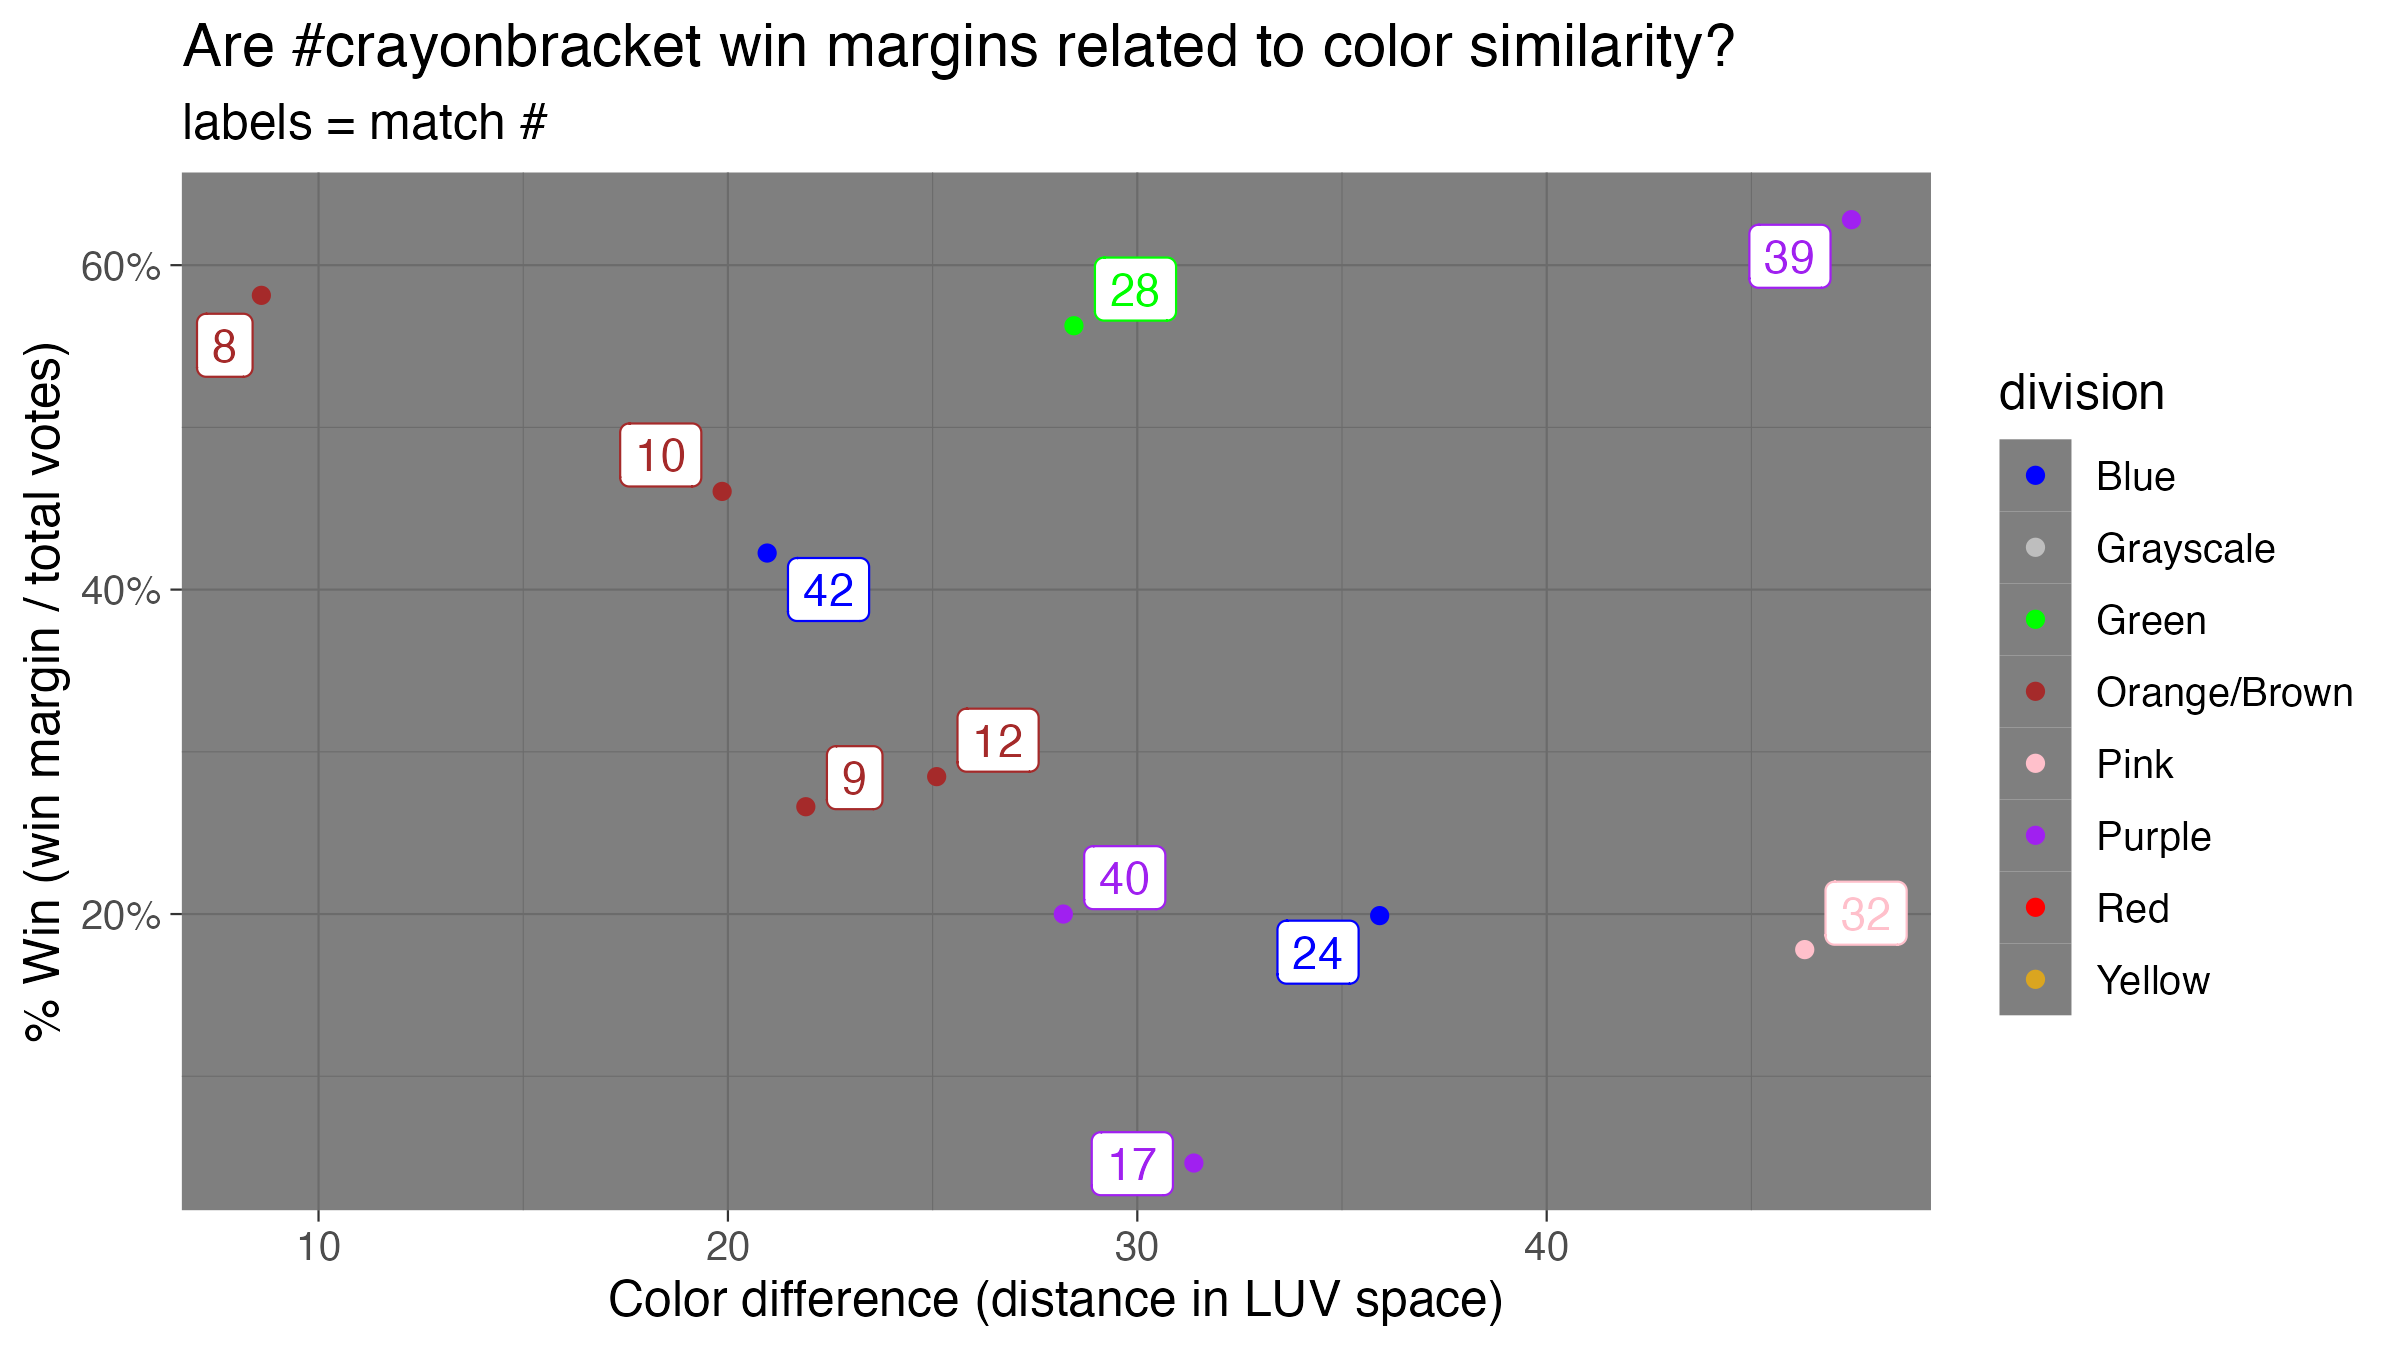
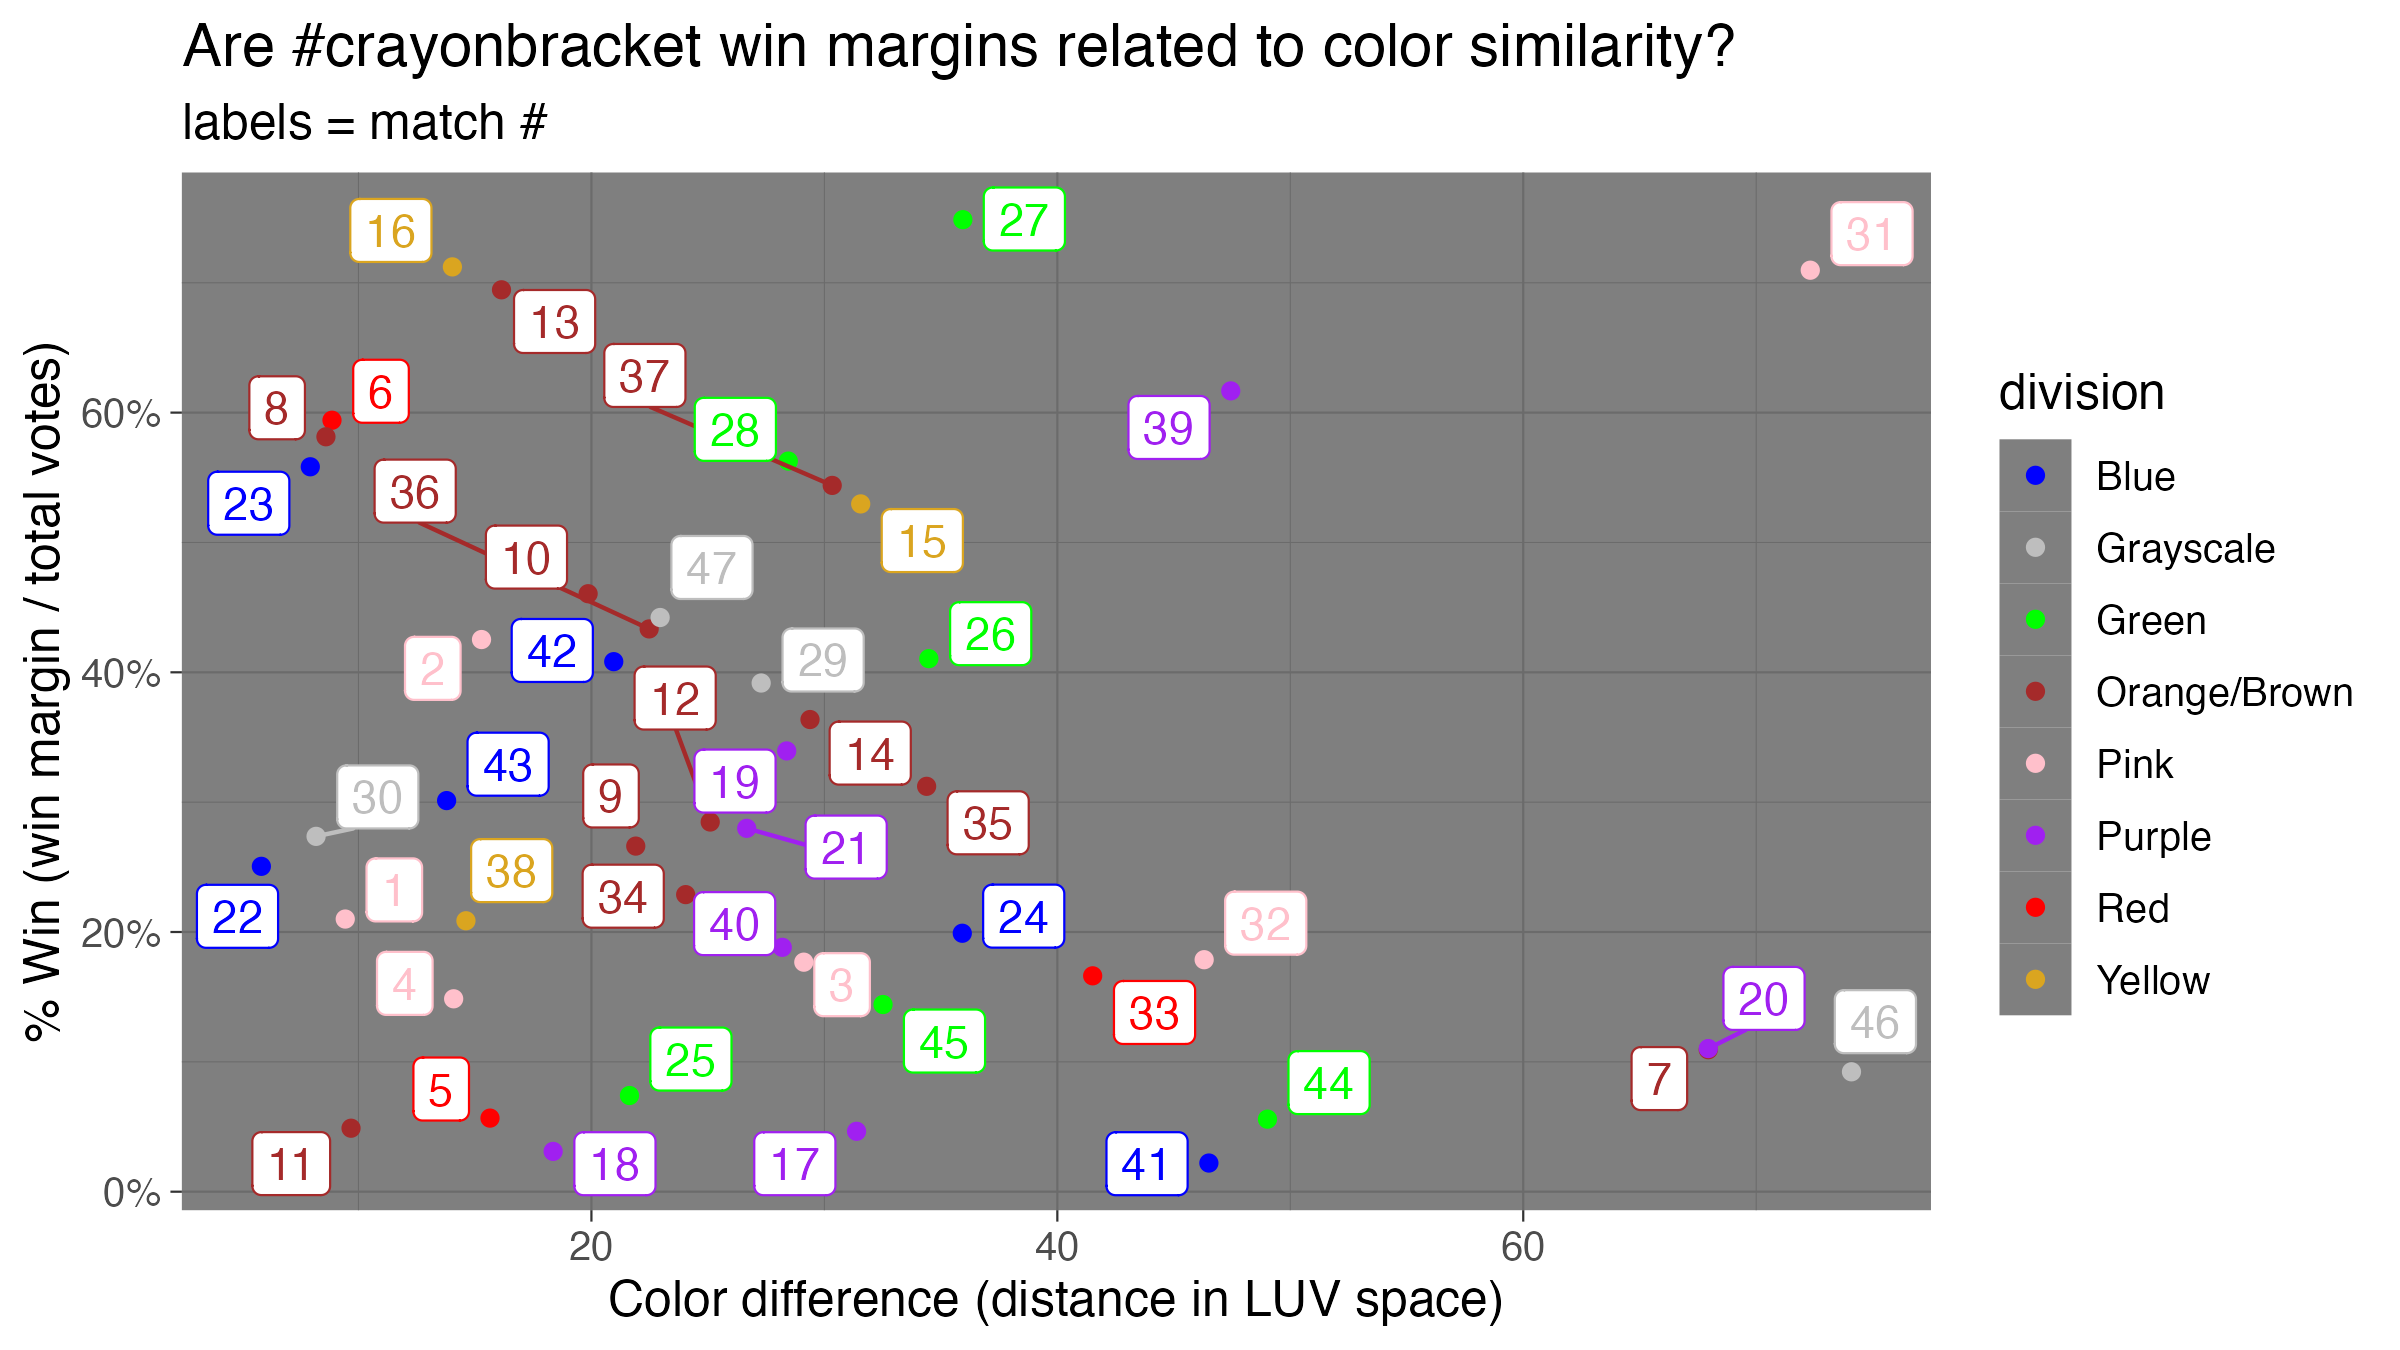
run analysis

diff --git a/analysis.md b/analysis.md
@@ -1,0 +1,199 @@
+Color Analysis
+================
+Eric R. Scott
+2022-10-07
+
+``` r
+# Load packages and data --------------------------------------------------
+library(colorspace)
+library(tidyverse)
+```
+
+    ## ── Attaching packages ─────────────────────────────────────── tidyverse 1.3.2 ──
+    ## ✔ ggplot2 3.3.6      ✔ purrr   0.3.5 
+    ## ✔ tibble  3.1.8      ✔ dplyr   1.0.10
+    ## ✔ tidyr   1.2.1      ✔ stringr 1.4.1 
+    ## ✔ readr   2.1.3      ✔ forcats 0.5.2 
+    ## ── Conflicts ────────────────────────────────────────── tidyverse_conflicts() ──
+    ## ✖ dplyr::filter() masks stats::filter()
+    ## ✖ dplyr::lag()    masks stats::lag()
+
+``` r
+library(ggrepel)
+library(performance)
+```
+
+    ## Warning: package 'performance' was built under R version 4.2.1
+
+``` r
+library(MASS)
+```
+
+    ## 
+    ## Attaching package: 'MASS'
+    ## 
+    ## The following object is masked from 'package:dplyr':
+    ## 
+    ##     select
+
+``` r
+library(car)
+```
+
+    ## Loading required package: carData
+    ## 
+    ## Attaching package: 'car'
+    ## 
+    ## The following object is masked from 'package:dplyr':
+    ## 
+    ##     recode
+    ## 
+    ## The following object is masked from 'package:purrr':
+    ## 
+    ##     some
+
+``` r
+full_data <- read_csv("data/crayonbracket.csv")
+```
+
+    ## Rows: 94 Columns: 9
+    ## ── Column specification ────────────────────────────────────────────────────────
+    ## Delimiter: ","
+    ## chr (4): colors, label, color_name, division
+    ## dbl (5): match, id_str, poll_id, position, votes
+    ## 
+    ## ℹ Use `spec()` to retrieve the full column specification for this data.
+    ## ℹ Specify the column types or set `show_col_types = FALSE` to quiet this message.
+
+# Is the difference between colors a main driver of how close a match is?
+
+In other words, do colors that are more different from eachother have a
+winner that wins by a greater number of votes?
+
+To understand this, first we need a metric of how different or similar
+colors are. I pulled the hex codes for each crayon color from @sbarolo’s
+tweets (assuming they are accurate and official Crayola hex colors). I
+then transformed them to the LUV color space, which is relatively
+“percepturally uniform” meaning that we can use the Euclidean distance
+between colors in this space as a measure of similarity.
+
+``` r
+#Create matrix column of HSV coordinates for each color
+dist_diff <- 
+  full_data |>
+  mutate(coords = colors |> hex2RGB() |> as("LUV") |> coords()) |> 
+  #For each match ...
+  group_by(match) |> 
+  #Use the matrix to calculate euclidean distance
+  summarise(
+    distance = as.numeric(dist(coords, method = "euclidean")), #color similarity
+    poll_margin = abs(diff(votes)), #how many votes did the winner win by?
+    winner = color_name[which.max(votes)], #which color won?
+    total_votes = sum(votes), #how many total votes?
+    division = unique(division), #what division were they in?
+    match_name = glue::glue_collapse(color_name, sep = " vs. ")
+  ) |> 
+  mutate(margin_prop = poll_margin/total_votes) |> #percentage win margin
+  dplyr::select(match, match_name, winner, division, poll_margin, total_votes, margin_prop, distance)
+head(dist_diff)
+```
+
+    ## # A tibble: 6 × 8
+    ##   match match_name                winner divis…¹ poll_…² total…³ margi…⁴ dista…⁵
+    ##   <dbl> <glue>                    <chr>  <chr>     <dbl>   <dbl>   <dbl>   <dbl>
+    ## 1     1 lavender vs. carnation p… carna… Pink        101     481  0.210     9.43
+    ## 2     2 violet red vs. wild stra… wild … Pink        219     515  0.425    15.3 
+    ## 3     3 magenta vs. tickle me pi… magen… Pink         70     396  0.177    29.1 
+    ## 4     4 mauvelous vs. salmon      mauve… Pink         67     451  0.149    14.1 
+    ## 5     5 scarlet vs. red           red    Red          31     547  0.0567   15.6 
+    ## 6     6 brick red vs. mahogany    brick… Red         243     409  0.594     8.86
+    ## # … with abbreviated variable names ¹division, ²poll_margin, ³total_votes,
+    ## #   ⁴margin_prop, ⁵distance
+
+Then we can plot these data:
+
+``` r
+#manual color scale for division
+division_color <- 
+  c(Blue = "blue", Grayscale = "grey", Green = "green", `Orange/Brown` = "brown", Pink = "pink", Purple = "purple", Red = "red", Yellow = "goldenrod")
+
+ggplot(dist_diff, aes(x = distance, y = margin_prop, color = division)) + 
+  geom_point() +
+  geom_label_repel(aes(label = match), show.legend = FALSE) +
+  # geom_label(aes(label = match)) +
+  scale_color_manual(values = division_color) +
+  scale_y_continuous(labels = scales::percent) +
+  labs(title = "Are #crayonbracket win margins related to color similarity?",
+       subtitle = "labels = match #",
+       x = "Color difference (distance in LUV space)",
+       y = "% Win (win margin / total votes)") +
+  theme_dark() +
+  theme(text = element_text(size = 12))
+```
+
+![](analysis_files/figure-gfm/unnamed-chunk-3-1.png)<!-- -->
+
+``` r
+ggsave("color_diff_vs_win_margin.png", width = 1200*2, height = 675*2, unit = "px")
+```
+
+It doesn’t look like there is any particularly strong pattern, but let’s
+fit a model.
+
+Votes are a count variable, so maybe they’re Poisson distributed? I’m
+going to go with a Poisson GLM and use an offset of total votes to
+account for variation in “sampling effort”
+
+``` r
+m <- 
+  glm(poll_margin ~ distance,
+      family = poisson,
+      offset = log(total_votes),
+      data = dist_diff)
+performance::check_overdispersion(m)
+```
+
+    ## # Overdispersion test
+    ## 
+    ##        dispersion ratio =   63.635
+    ##   Pearson's Chi-Squared = 2863.594
+    ##                 p-value =  < 0.001
+
+    ## Overdispersion detected.
+
+``` r
+performance::check_model(m)
+```
+
+![](analysis_files/figure-gfm/unnamed-chunk-4-1.png)<!-- -->
+
+There’s overdispersion, so let’s try a negative binomial model.
+
+``` r
+m2 <- 
+  glm.nb(poll_margin ~ distance + offset(log(total_votes)),
+         data = dist_diff)
+performance::check_model(m2)
+```
+
+![](analysis_files/figure-gfm/unnamed-chunk-5-1.png)<!-- -->
+
+Looks much better
+
+``` r
+Anova(m2)
+```
+
+    ## Analysis of Deviance Table (Type II tests)
+    ## 
+    ## Response: poll_margin
+    ##          LR Chisq Df Pr(>Chisq)
+    ## distance  0.89068  1     0.3453
+
+Not significant! So no relationship (so far) between win margin and
+color similarity
+
+# Question 2: Is number of votes related to saturation?
+
+I think people just like more saturated colors. What is saturation and
+how is it represented in color space?
